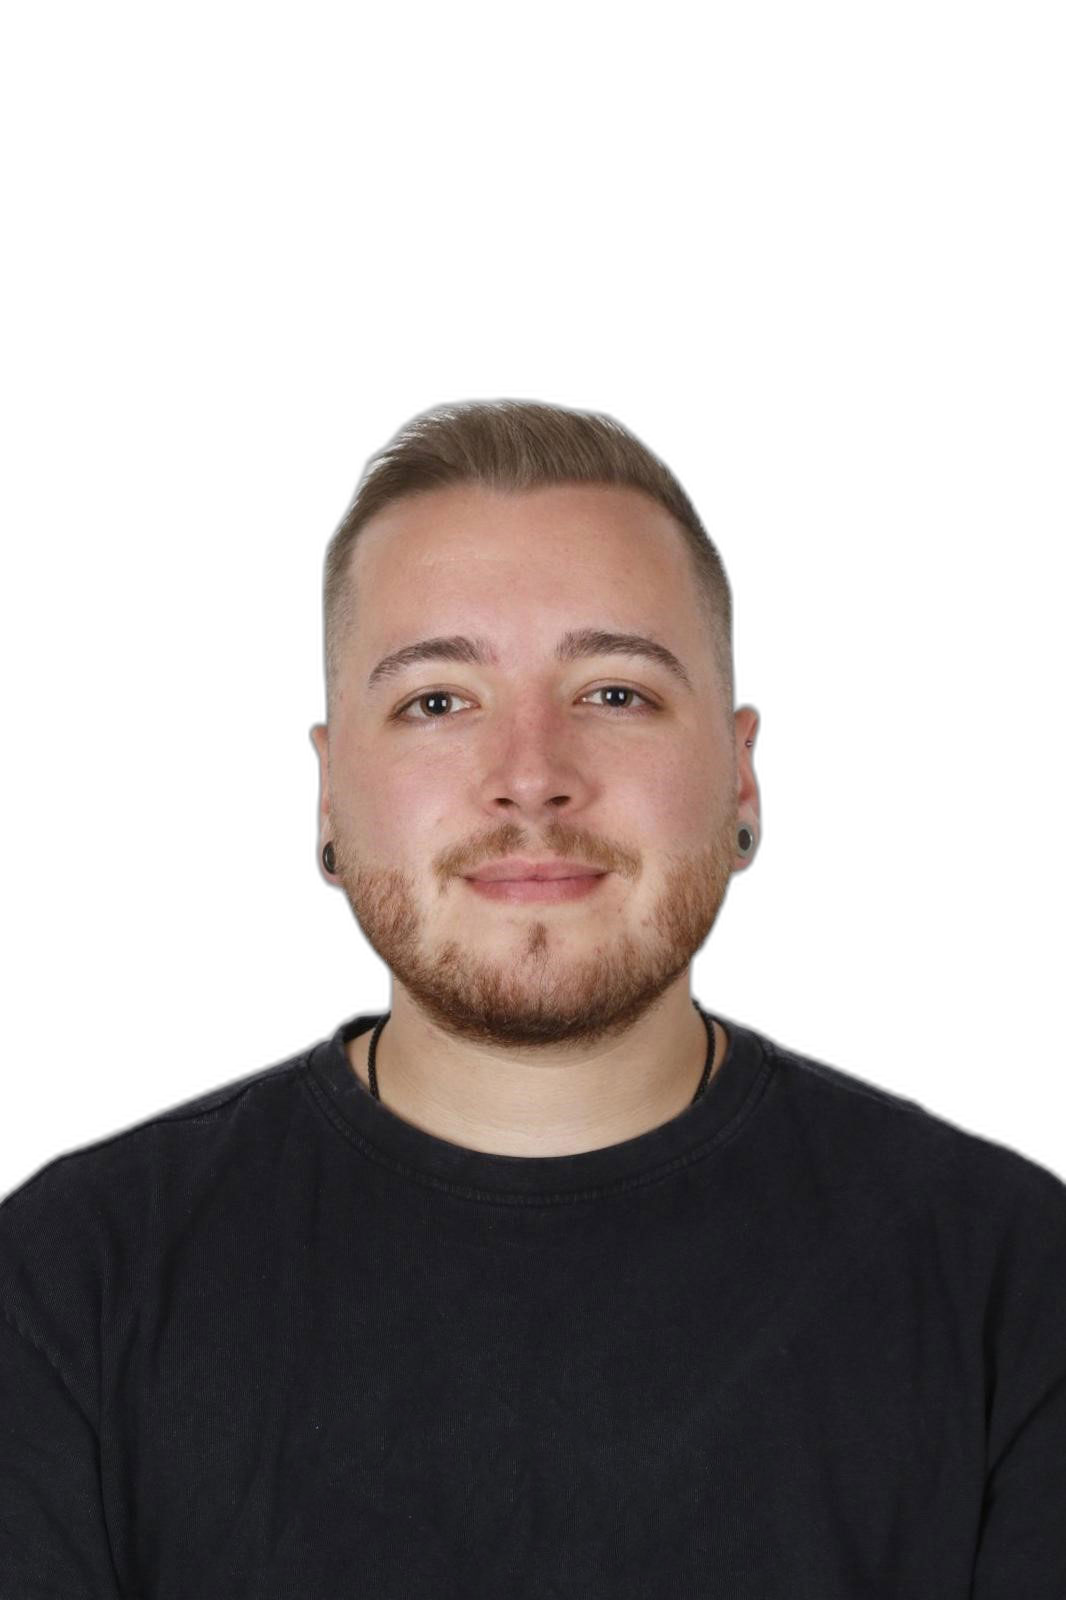
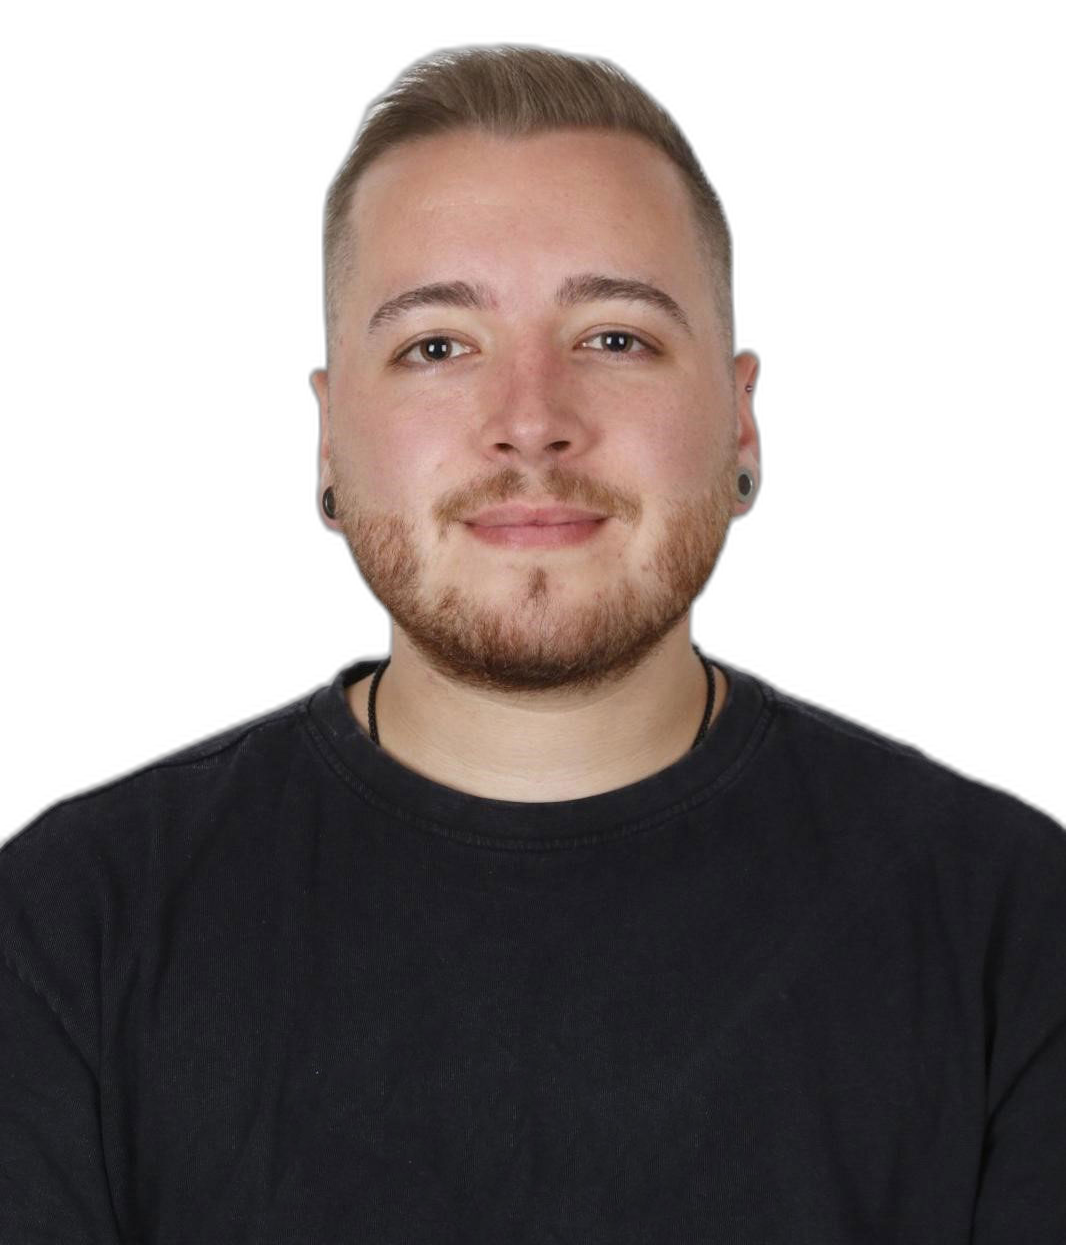
Einheitliche HUD-Platzhalter, svN-- Foto-Crop

Changed region(s): [[0.0, 0.0305, 1.0, 0.7631]]

diff --git a/css/styles.css b/css/styles.css
@@ -1195,38 +1195,47 @@ section + section { border-top: 1px solid var(--border-soft); }
   position: relative;
   z-index: 1; /* above the .initials grid placeholder */
 }
-/* Player photo placeholder — tactical grid pattern */
+/* Player photo placeholder — tactical HUD with initials */
 .player-photo .initials {
   position: absolute;
   inset: 0;
-  display: block;
-  font-size: 0; /* hide any text */
-  z-index: 0;   /* behind the photo */
+  display: flex;
+  align-items: center;
+  justify-content: center;
+  padding-bottom: 22%;
+  z-index: 0;
+  font-family: var(--font-display);
+  font-size: 58px;
+  font-weight: 800;
+  letter-spacing: 3px;
+  color: transparent;
+  -webkit-text-stroke: 1.5px rgba(255, 56, 102, 0.55);
+  text-shadow: 0 0 36px rgba(225, 29, 72, 0.35);
   background-color: var(--surface-2);
   background-image:
     linear-gradient(var(--border) 1px, transparent 1px),
     linear-gradient(90deg, var(--border) 1px, transparent 1px),
-    radial-gradient(circle at 50% 38%, rgba(225,29,72,0.13) 0%, transparent 65%);
-  background-size: 32px 32px, 32px 32px, 100% 100%;
+    linear-gradient(115deg, transparent 42%, rgba(225,29,72,0.07) 50%, transparent 58%),
+    radial-gradient(circle at 50% 40%, rgba(225,29,72,0.16) 0%, transparent 65%);
+  background-size: 32px 32px, 32px 32px, 100% 100%, 100% 100%;
   user-select: none;
 }
-/* Crosshair dot in center */
+/* HUD target frame around the initials */
 .player-photo .initials::before {
   content: "";
   position: absolute;
-  left: 50%; top: 38%;
-  width: 40px; height: 40px;
+  left: 50%; top: 40%;
+  width: 128px; height: 128px;
   transform: translate(-50%, -50%);
   background-image:
-    linear-gradient(var(--accent) 0 0),
-    linear-gradient(var(--accent) 0 0),
-    linear-gradient(var(--accent) 0 0),
-    linear-gradient(var(--accent) 0 0),
-    radial-gradient(circle, var(--accent) 2px, transparent 2px);
-  background-size: 2px 14px, 14px 2px, 2px 14px, 14px 2px, 100% 100%;
-  background-position: 50% 0, 100% 50%, 50% 100%, 0 50%, 50% 50%;
+    linear-gradient(var(--accent) 0 0), linear-gradient(var(--accent) 0 0),
+    linear-gradient(var(--accent) 0 0), linear-gradient(var(--accent) 0 0),
+    linear-gradient(var(--accent) 0 0), linear-gradient(var(--accent) 0 0),
+    linear-gradient(var(--accent) 0 0), linear-gradient(var(--accent) 0 0);
+  background-size: 18px 2px, 2px 18px, 18px 2px, 2px 18px, 18px 2px, 2px 18px, 18px 2px, 2px 18px;
+  background-position: 0 0, 0 0, 100% 0, 100% 0, 0 100%, 0 100%, 100% 100%, 100% 100%;
   background-repeat: no-repeat;
-  opacity: 0.35;
+  opacity: 0.5;
 }
 .player-photo::after {
   content: "";

diff --git a/roster/index.html b/roster/index.html
@@ -162,7 +162,7 @@
         <!-- rdX -->
         <article class="player reveal reveal-d3" data-nickname="rdX"><div class="player-inner">
           <div class="player-face player-front">
-            <div class="player-photo"><span class="initials">RD</span><img src="/assets/players/rdx.svg" alt="rdX" onerror="this.style.display='none'"></div>
+            <div class="player-photo"><span class="initials">RD</span><img src="/assets/players/rdx.png" alt="rdX" onerror="this.style.display='none'"></div>
             <div class="player-overlay-top"><span class="player-flag" title="Deutschland">🇩🇪</span><span class="player-level"><span class="lvl-dot lvl-10"></span>LVL 10</span></div>
             <div class="player-info"><div class="player-role">Second AWP</div><div class="player-name player-name--glow">rdX</div></div>
             <div class="player-elo"><span>FACEIT ELO</span><span class="v">2.123</span></div>